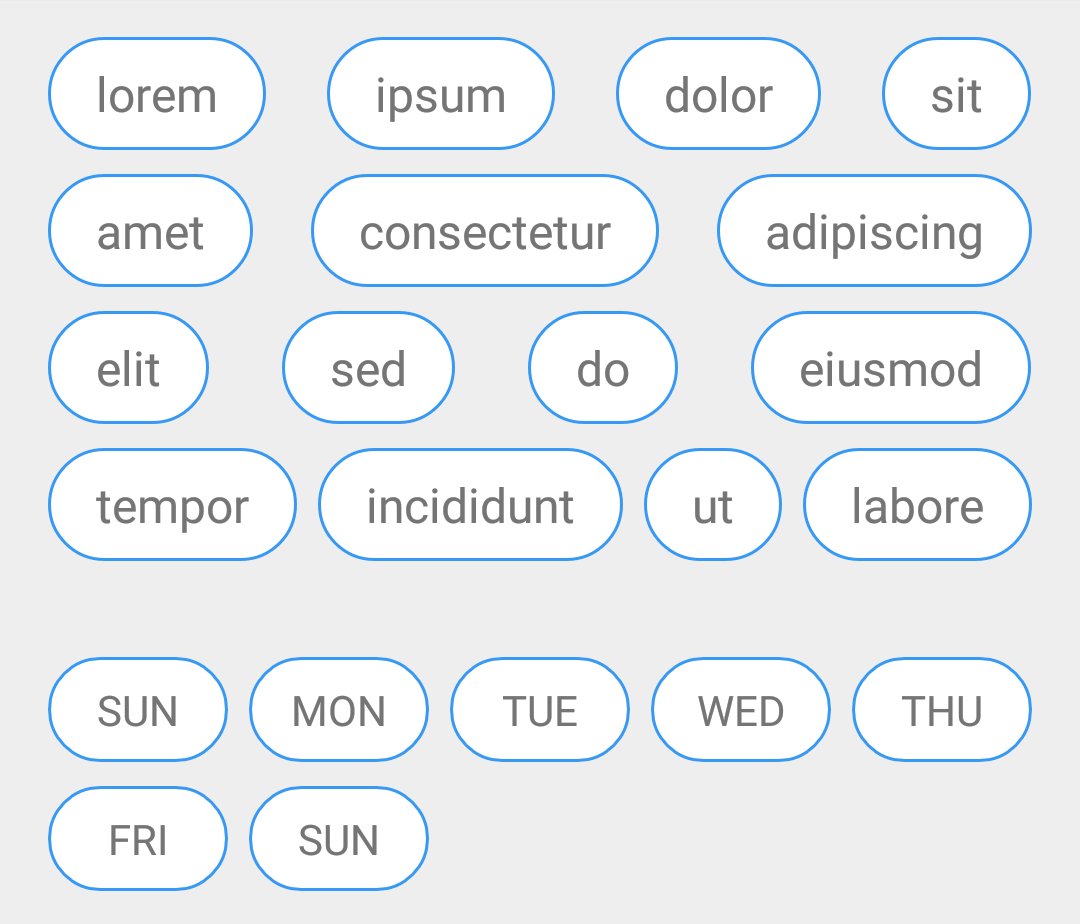
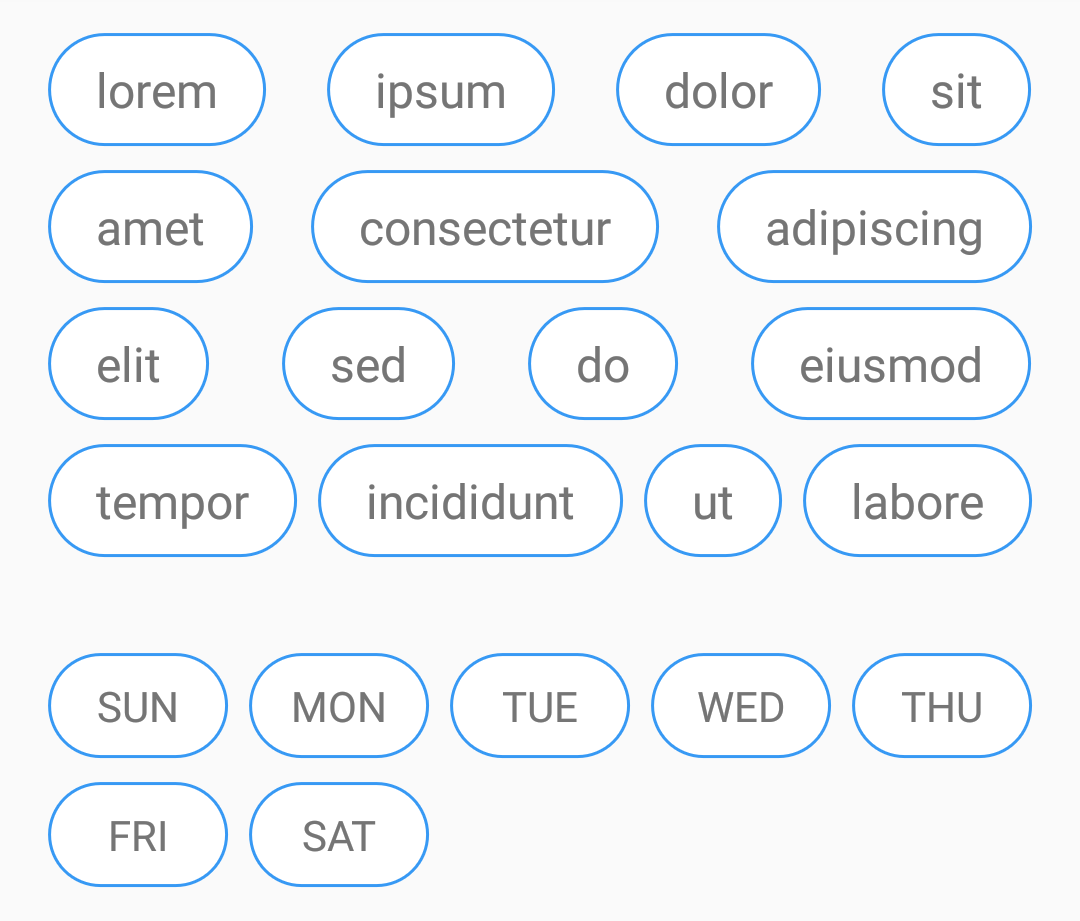
Update sample and readme.

diff --git a/README.md b/README.md
@@ -14,6 +14,33 @@ compile 'com.nex3z:flow-layout:0.1.2'
 ```
 
 
+## Usage
+
+```xml
+<com.nex3z.flowlayout.FlowLayout
+    xmlns:app="http://schemas.android.com/apk/res-auto"
+    android:layout_width="match_parent"
+    android:layout_height="wrap_content"
+    app:childSpacing="auto"
+    app:childSpacingForLastRow="align"
+    app:rowSpacing="8dp">
+
+    <TextView
+        android:layout_width="wrap_content"
+        android:layout_height="wrap_content"
+        android:text="SUN"/>
+
+    <TextView
+        android:layout_width="wrap_content"
+        android:layout_height="wrap_content"
+        android:text="MON"/>
+
+    <!--...-->
+
+</com.nex3z.flowlayout.FlowLayout>
+```
+
+
 ## Attributes
 
 | Attribute              | Format                       | Description                                                                                                                                          |
